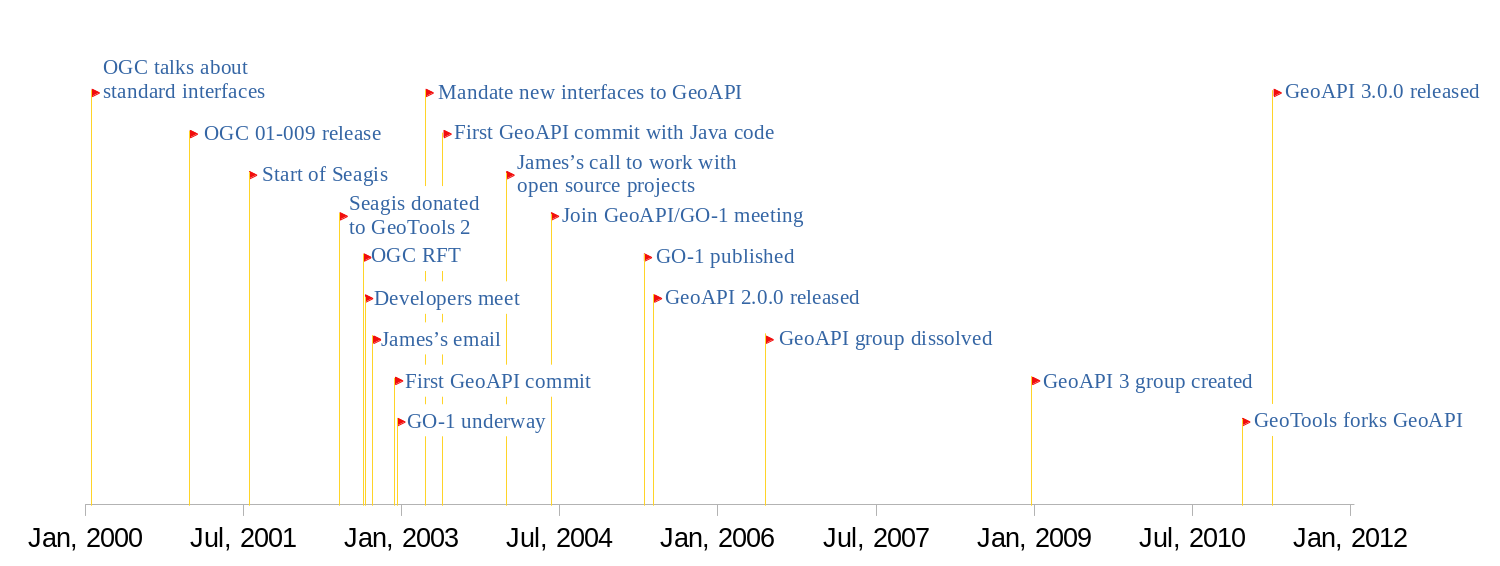
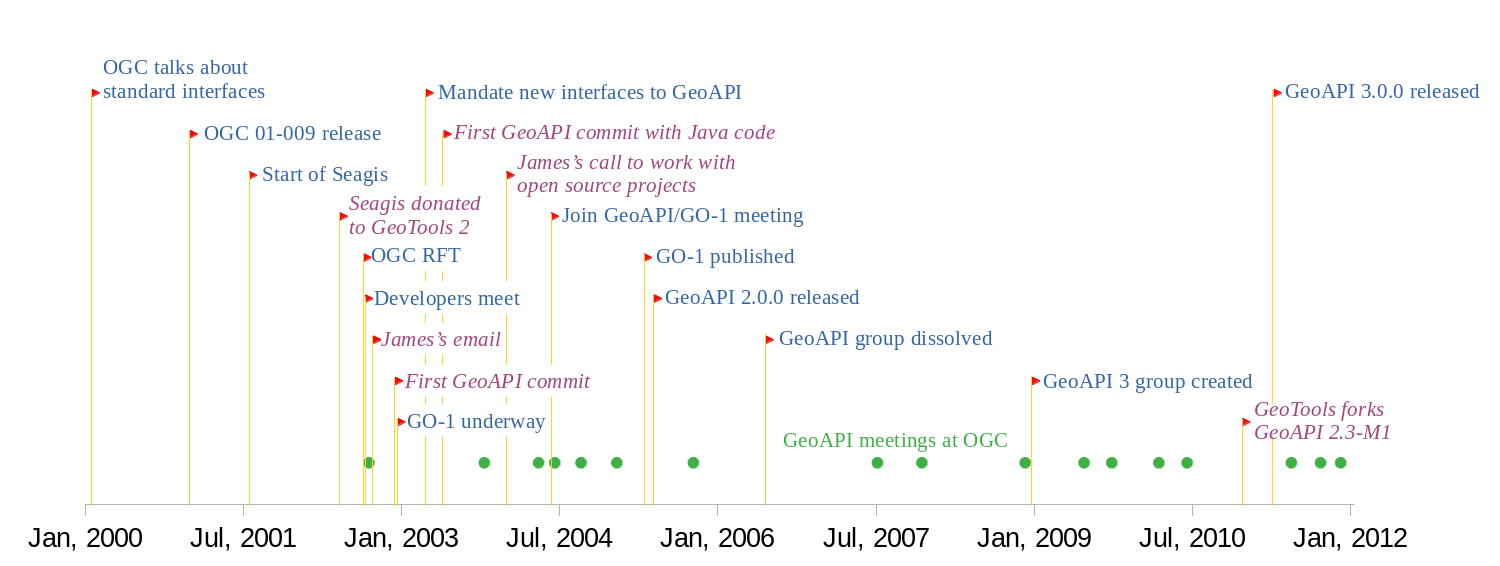
Add more details about what hapened after fork and update the timeline.

diff --git a/history/GeoAPI.html b/history/GeoAPI.html
@@ -80,7 +80,7 @@
     <h2>Formation of GeoAPI open source project</h2>
     <p>
       In September 2002, a <a href="https://portal.ogc.org/files/?artifact_id=103494">joint presentation
-      about Grid Coverages in Java</a> was done at the OGC meeting in Noordwijk by Markus Müller (Degree)
+      about Grid Coverages in Java</a> was done at the OGC meeting in Noordwijk by Markus Müller (Degree, now lat/lon GmbH)
       and Martin Desruisseaux (<abbr title="Institut de Recherche pour le Développement">IRD</abbr>).
       It was followed by an informal discussion between above-cited speakers and
       James McGill (Geotools), Stephane Fellah (PCI Geomatic),
@@ -101,7 +101,7 @@
       <abbr title="Coordinate Reference System">CRS</abbr> working group started to
       <a href="https://portal.ogc.org/files/?artifact_id=4720">transition from OGC 01-009 to ISO-19111.</a>
       During the Orléan <abbr title="Open Geospatial Consortium">OGC</abbr> meeting in April 2003,
-      an informal discussion happened between Markus Müller, Ian Turton, Martin Daly
+      an informal discussion happened between Markus Müller (Degree), Ian Turton (GeoTools), Martin Daly
       (editor of <abbr title="Open Geospatial Consortium">OGC</abbr> 01-009) and Martin Desruisseaux.
       It was agreed that the Java interfaces published by <abbr title="Open Geospatial Consortium">OGC</abbr> 01-009
       were not longer conform to latest <abbr title="Unified Modeling Language">UML</abbr> diagrams
@@ -133,7 +133,7 @@
     </p>
       <ul>
         <li><b>Projects:</b> <abbr>GO</abbr>-1, GeoTools, GeoServer, Geofoo,
-            FreeGIS, SeaGIS, uDig, JUMP, degree, OpenMap, Gnumeric, <abbr>JTS</abbr>.</li>
+            FreeGIS, SeaGIS, uDig, JUMP, Degree, OpenMap, Gnumeric, <abbr>JTS</abbr>.</li>
         <li><b>Organizations:</b> <abbr>BBN</abbr> Technologies, Refractions Research, <abbr>PCI</abbr> Geomatics,
             The Open Planning Project, Polexis, Penn State, lat/lon, Dominion t.i.,
             Institut de Recherche pour le Développement (<abbr>IRD</abbr>).</li>
@@ -185,14 +185,38 @@
     <p>
       The most fervent GeoAPI supporters among GeoTools core developers were the ones who brought Seagis to GeoTools.
       They were the ones who attended most frequently to <abbr title="Open Geospatial Consortium">OGC</abbr> meetings.
-      After those developers left the GeoTools project in May 2009, the GeoTools PMC decided to
+      After those developers left the GeoTools project in May 2009, the GeoTools <abbr title="project management committee">PMC</abbr> decided to
       <a href="https://github.com/desruisseaux/GeoTools-archive/commit/a9926a2c8600044a036b778ccf19774708dc1489">fork GeoAPI 2.3-M1</a>
       (followed by a <a href="https://github.com/desruisseaux/GeoTools-archive/commit/5e4477fffc6015ae210bdaa97f7c898e79786e80">change
       of file headers</a>), but kept the <code>org.opengis</code> package name.
+      The decision to continue to use the <code>org.opengis</code> namespace for GeoTools's fork of GeoAPI has
+      <a href="https://issues.apache.org/jira/browse/CALCITE-5399?focusedCommentId=17637991#comment-17637991">created
+      conflicts with projects implementing the OGC GeoAPI 3.0 standard</a>.
+      Some GeoTools users <a href="https://sourceforge.net/p/geotools/mailman/message/33467346/">raised concerns about this conflict</a>,
+      but member of the GeoTools <abbr title="project management committee">PMC</abbr> claimed that GeoAPI was a GeoTools outreach project.
+      To put in perspective, the figure below is a timeline with events related to GeoTools in purple and italic characters.
+      Events in blue characters occurred at <abbr title="Open Geospatial Consortium">OGC</abbr> or elsewhere.
+      Green circles are <abbr title="Open Geospatial Consortium">OGC</abbr> meetings having some talks about GeoAPI
+      or <abbr title="Geographic Objects">GO</abbr>-1.
     </p>
-    <p class="figure"><b>Timeline</b></p>
     <p class="figure">
       <img alt="Timeline" src="Timeline.png" width="1200">
+    </p>
+
+    <h2>Continuation</h2>
+    <p>
+      GeoAPI 3.0 had two minor releases for following the evolution of Java environment:
+    </p>
+    <ul>
+      <li>GeoAPI 3.0.1 was released by <abbr>OGC</abbr> in September 2017 for upgrading the JSR-275 dependency to JSR-363.</li>
+      <li>GeoAPI 3.0.2 was released by <abbr>OGC</abbr> in February 2022 for upgrading the JSR-363 dependency to JSR-385
+          and for introducing module information.</li>
+    </ul>
+    <p>
+      As of February 2022, <abbr title="Open Geospatial Consortium">OGC</abbr> GeoAPI 3.0.2 is implemented by
+      <a href="https://sis.apache.org/">Apache SIS</a>, implemented by <a href="https://github.com/OSGeo/PROJ-JNI">OSGeo PROJ-JNI</a>,
+      and used by the <a href="https://github.com/IOGP-GIGS/GIGSGeoAPI">Geospatial Integrity of Geoscience Software (GIGS)</a> tests.
+      Work for 3.1 or 4.0 release is in progress.
     </p>
   </body>
 </html>
